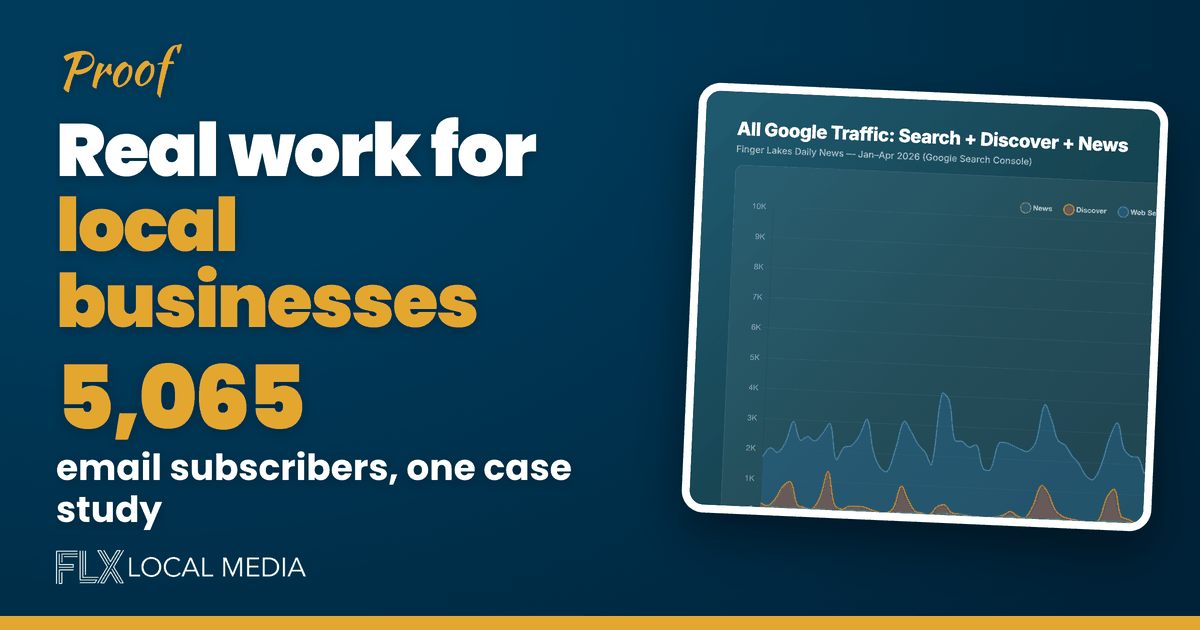
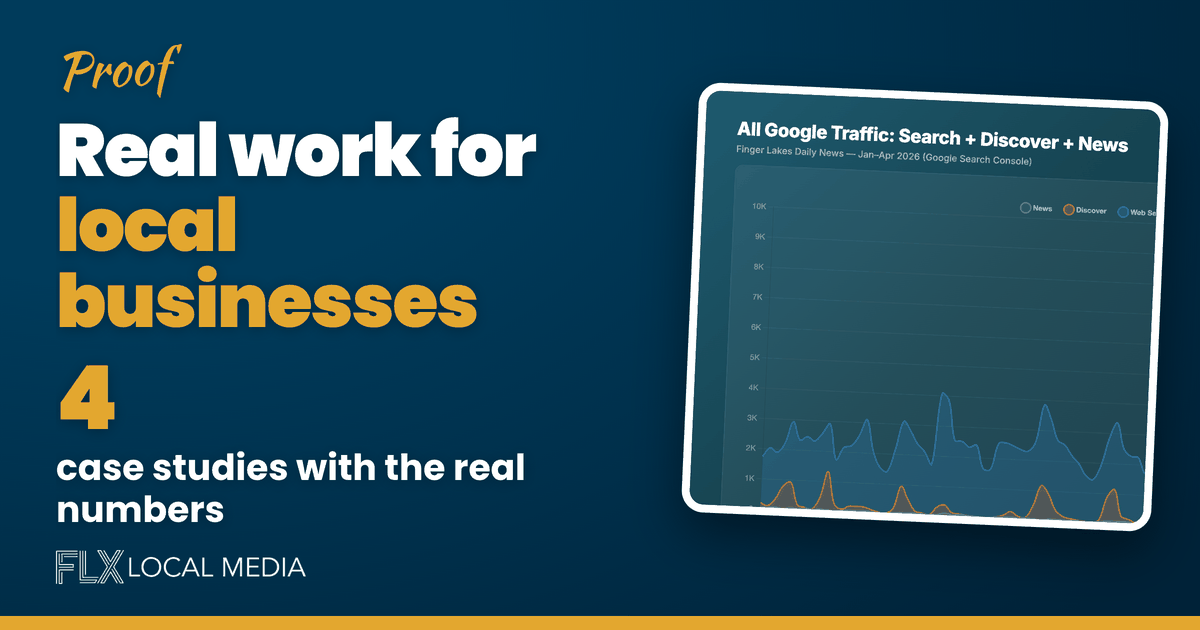
Share images: why-radio 92% (Nielsen monthly), contests card states growth from 2,972, case-study index card counts studies; why-radio page 92% and unsourced age claim removed; deploy skips tools/

Changed region(s): [[0.0308, 0.6937, 0.4933, 0.8444], [0.0308, 0.573, 0.2775, 0.6937]]

diff --git a/page-templates/template-why-radio.php b/page-templates/template-why-radio.php
@@ -70,13 +70,13 @@ flxlm_pg_open();
 		</div>
 
 		<div class="why-radio-stat-hero">
-			<div class="why-radio-stat-hero__number">93%</div>
+			<div class="why-radio-stat-hero__number">92%</div>
 			<div class="why-radio-stat-hero__label">of American adults listen to radio every month (national figure)</div>
 			<div class="why-radio-stat-hero__detail">241.9 million people, more than any other platform. Source: Nielsen Audio Today 2026.</div>
 		</div>
 
 		<div class="post-content">
-			<p>More than smartphones. More than television. More than streaming, social media, or anything else. Nationally, radio reaches 93% of American adults every single month. Among the 35-49 age group, the prime spending years, that number is 95%.</p>
+			<p>More than smartphones. More than television. More than streaming, social media, or anything else. Nationally, radio reaches 92% of American adults in a month (Nielsen).</p>
 		</div>
 	</div>
 </section>
